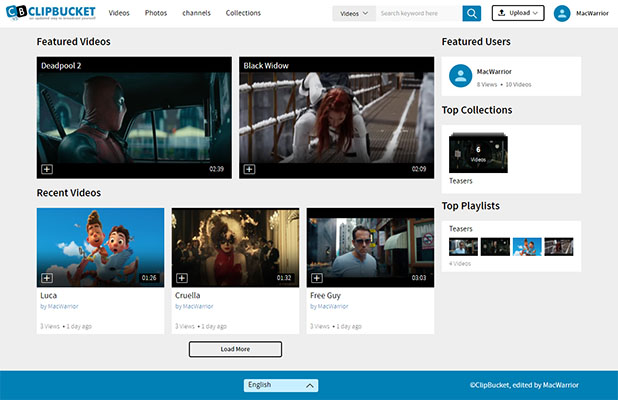
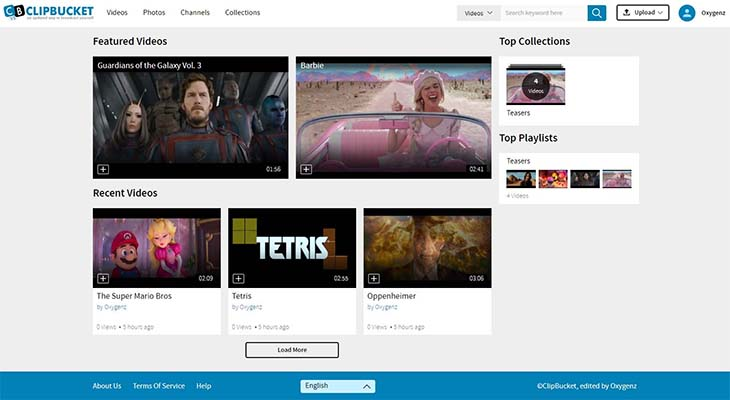
Miscellaneous : Update Readme & Copyright

diff --git a/upload/styles/cb_28/layout/footer.html b/upload/styles/cb_28/layout/footer.html
@@ -40,7 +40,7 @@
 				{if in_dev()}
 					<i class="fa fa-bug open-modal" title="{lang code='open_debug'}" data-toggle="modal" data-target="#devModal"></i>
 				{/if}
-				<span>©ClipBucket, {lang code='edited_by'} MacWarrior</span>
+				<span>©ClipBucket, {lang code='edited_by'} <a href='https://clipbucket.oxygenz.fr' target='_blank'>Oxygenz</a></span>
 			</div>
 		</div>
 	</div><!-- end of custom-container -->

diff --git a/upload/admin_area/styles/cb_2014/layout/login.html b/upload/admin_area/styles/cb_2014/layout/login.html
@@ -33,7 +33,7 @@
             </div>
         
             <div align="center" class="login_footer mrgnt10">
-				©ClipBucket, {lang code='edited_by'} MacWarrior
+				©ClipBucket, {lang code='edited_by'} <a href='https://clipbucket.oxygenz.fr' target='_blank'>Oxygenz</a>
             </div>
         </div>
     </body>

diff --git a/upload/cb_install/modes/agreement.php b/upload/cb_install/modes/agreement.php
@@ -11,7 +11,7 @@
         <br/><br/>
         Because Clipbucket original is dead since 2018 <i>(officially since 2022)</i>, branding removal license can't be bought anymore.<br/><i class="small">(It would be a shame if branding was integraded in translations system)</i>
         <br/><br/>
-        This version of Clipbucket and futher updates are supported by <a href="https://github.com/MacWarrior/clipbucket-v5" target="_blank" style="color:#fff;text-decoration:underline;">Clipbucket V5</a> team and Oxygenz.
+        This version of Clipbucket and futher updates are supported by <a href="https://github.com/MacWarrior/clipbucket-v5" target="_blank" style="color:#fff;text-decoration:underline;">Clipbucket V5</a> team and <a href='https://clipbucket.oxygenz.fr' target='_blank'  style="color:#fff;text-decoration:underline;">Oxygenz</a>.
     </div>
 </div>
 

diff --git a/README.md b/README.md
@@ -13,7 +13,7 @@ You can start a fully dedicated video sharing website or photo sharing websites 
 
 # History
 ClipBucket <a href="https://github.com/arslancb/clipbucket">original repository</a> has been slowly dying since the release 4.1 (May 2018) and has been archived on December 2022.<br/>
-<a href="https://github.com/MacWarrior/clipbucket-v5">ClipBucket V5</a> was created on 2016 by <a href="https://github.com/MacWarrior">MacWarrior</a> and is part of <a href="https://oxygenz.fr/en/">Oxygenz</a>'s projects since 2023
+<a href="https://github.com/MacWarrior/clipbucket-v5">ClipBucket V5</a> was created on 2016 by <a href="https://github.com/MacWarrior">MacWarrior</a> and is part of <a href="https://oxygenz.fr/en/" target="_blank">Oxygenz</a>'s projects since 2023
 
 # Why <a href="https://github.com/MacWarrior/clipbucket-v5">ClipBucket V5</a>
 - PHP 7.0 - 8.2+ compatibility
@@ -44,7 +44,7 @@ Optionnal : Git<br/>
 <i>Only stable versions have been tested, mainly on Debian</i>
 
 # DB auto-update system
-On version 5.5.0 (WIP), Revision 169, a new DB update system has been implemented, since then, you can easily update your DB from any version since 5.3.0 to any new version/revision.<br/>
+On version 5.5.0 (WIP), Revision 169, a new DB update system has been implemented, since then, you can easily update your DB from any version since 4.2 RC1 to any new version/revision.<br/>
 Update your sources, log in and follow instructions displayed.
 
 # Updating from ClipBucket 4.2
